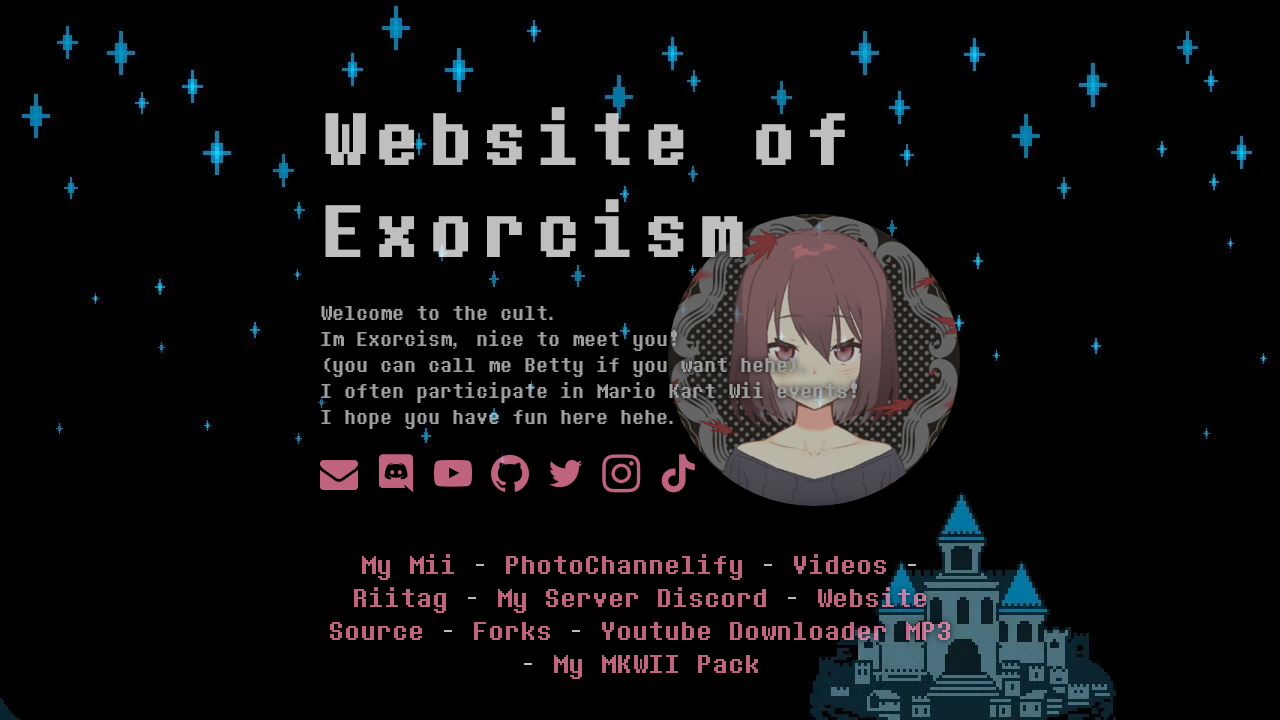
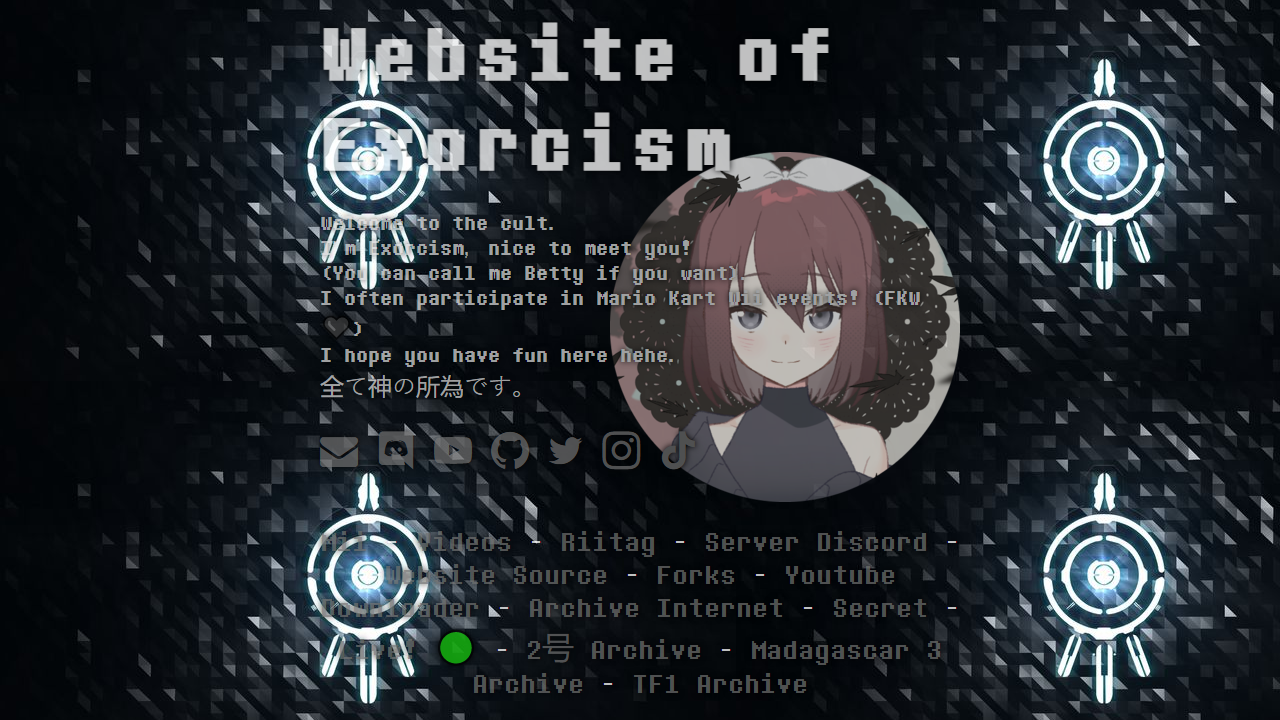
software has a home too !
- updated forks page
- alphabetically ordered links on home page
- added software page

diff --git a/index.html b/index.html
@@ -24,7 +24,20 @@
 			<span class="socials"><a href="mailto:soafensoe@protonmail.com"><i class="icon-envelope"></i></a> <a href="https://discord.gg/Y8wCFkRpwd"><i class="icon-discord"></i></a> <a href="https://youtube.com/channel/UCCDie0j-jpFRLd2HcvRSq3w"><i class="icon-youtube"></i></a> <a href="https://github.com/soafen"><i class="icon-github"></i></a> <a href="https://twitter.com/imsoafen"><i class="icon-twitter"></i></a> <a href="https://www.instagram.com/imsoafen/"><i class="icon-instagram"></i></a> <a href="https://www.tiktok.com/@imsoafen?"><i class="icon-tiktok"></i></a></span>
 			</div>
 			<div class="links">
-				<a href="mii">mii</a> - <a href="photochannelify">PhotoChannelify</a> - <a href="videos">video archive</a> - <a href="riitag">riitag</a> - <a href="support">support</a> - <a href="tv">soafenTV</a> - <a href="https://repo.soafen.love">repo</a> - <a href="spin">spin</a> - <a href="forks">forks</a> - <a href="https://mc.soafen.love/">minecraft server</a> - <a href="https://ipod.soafen.love">ipod</a> - <a href="sites">microsites</a> - <a href="video-editing">video editing</a>
+				<a href="forks">forks</a> - 
+				<a href="https://ipod.soafen.love">ipod</a> - 
+				<a href="sites">microsites</a> - 
+				<a href="mii">mii</a> - 
+				<a href="https://mc.soafen.love/">minecraft server</a> - 
+				<a href="photochannelify">PhotoChannelify</a> - 
+				<a href="https://repo.soafen.love">repo</a> - 
+				<a href="riitag">riitag</a> - 
+				<a href="tv">soafenTV</a> - 
+				<a href="software">software</a> - 
+				<a href="spin">spin</a> - 
+				<a href="support">support</a> - 
+				<a href="videos">video archive</a> - 
+				<a href="video-editing">video editing</a>
 			</div>
 		</div>
 		<script data-name="BMC-Widget" data-cfasync="false" src="https://cdnjs.buymeacoffee.com/1.0.0/widget.prod.min.js" data-id="soafen" data-description="support me on Buy me a coffee!" data-message="<3" data-color="#FF84AA" data-position="Right" data-x_margin="18" data-y_margin="18"></script>

diff --git a/forks/index.html b/forks/index.html
@@ -14,20 +14,24 @@
 		forks of my website ! <a href="https://github.com/soafen/soafen.love">make your own</a> ^^<br><br>
 		<table>
 			<tr>
-				<th><a href="https://bettydreemurr.github.io/Website/"><img src="../img/forks/exorcism.png"></a></th>
+				<th><a href="https://exorcism0666.github.io/Website/"><img src="../img/forks/exorcism.png"></a></th>
 				<th><a href="https://coopersr.github.io/website/"><img src="../img/forks/trashblox.png"></a></th>
 				<th><a href="https://mrzomka.github.io/zomka.dev/"><img src="../img/forks/zomka.dev.png"></a></th>
 			</tr>
 			<tr>
-				<td><a href="https://bettydreemurr.github.io/Website/">Website of Exorcism</a></td>
+				<td><a href="https://exorcism0666.github.io/Website/">Website of Exorcism</a></td>
 				<td><a href="https://coopersr.github.io/website/">coopersr.github.io</a></td>
 				<td><a href="https://mrzomka.github.io/zomka.dev/">zomka.dev</a></td>
 			</tr>
 			<tr>
-				<th><a href="https://blueboi-os.github.io/blueboi-os/"><img src="../img/forks/blueboi-os.png"></a></th>
+				<th><a href="https://blueboi.gq"><img src="../img/forks/blueboi.png"></a></th>
+				<th><a href="https://ryandoesstufff.github.io/site/"><img src="../img/forks/ryandoesstuff.png"></a></th>
+				<th><a href="https://ryandoesstufff.github.io/site/"><img src="../img/forks/wiibeep.png"></a></th>
 			</tr>
 			<tr>
-				<td><a href="https://blueboi-os.github.io/blueboi-os/">BlueBoi</a></td>
+				<td><a href="https://blueboi.gq">BlueBoi</a></td>
+				<td><a href="https://ryandoesstufff.github.io/site/">Ryan Does Stuff</a></td>
+				<td><a href="https://wiibeep.tk/">WiiBeep.tk</a></td>
 			</tr>
 		</table>
 		<br><a href="../">home</a>

diff --git a/software/index.html b/software/index.html
@@ -1,0 +1,24 @@
+<!DOCTYPE html>
+<html lang="en">
+    <head>
+		<meta charset="utf-8">
+        <title>software ~ soafen.love</title>
+		<meta content="soafen's software" property="og:title">
+		<meta content="my silly little software i've made over time !" property="og:description">
+		<meta content="https://soafen.love/img/closeup.png" property="og:image">
+		<meta content="#ff84aa" data-react-helmet="true" name="theme-color">
+		<link rel="stylesheet" href="../css/software.css">
+		<link rel="shortcut icon" type="image/png" href="../img/sophieheart.png"/>
+    </head>
+	<body>
+		<div style="text-align:center;"><h2>software</h2>i only develop software as a hobby at the moment, so don't expect quality ^^;</div>
+		<table style="margin:auto;padding-top:50px;border-spacing:0px;">
+			<tr>
+				<td><a href="https://github.com/soafen/ALVRestart"><img src="../img/software/ALVRestart.jpg" title="restart all components of SteamVR and ALVR in one go!"></a></td>
+				<td><a href="https://github.com/soafen/bashi-desktop-frend"><img src="../img/software/bashi-desktop-frend.jpg" title="keep bashi on your desktop while you work or play !"></a></td>
+			</tr>
+		</table><br>
+		<div style="text-align:center;">you'll find more on my <a href="https://github.com/soafen">GitHub page</a><br>
+		<a href="../">home</a></div>
+	</body>
+</html>

diff --git a/css/software.css b/css/software.css
@@ -1,0 +1,5 @@
+@font-face { font-family: PinkChicken; src: url('../font/PinkChicken-Regular.ttf'); }
+body { margin: 0; background-color: #ffcdcc; font-size:24px; font-family: PinkChicken, "Comic Sans MS", "Comic Sans", "Chalkboard SE", "Comic Neue", cursive; }
+a { text-decoration:none; color:#9e7f7e; }
+a:hover { color: black; }
+img { box-shadow: 0px 0px 12px #9e7f7e; max-height: 192px; }
